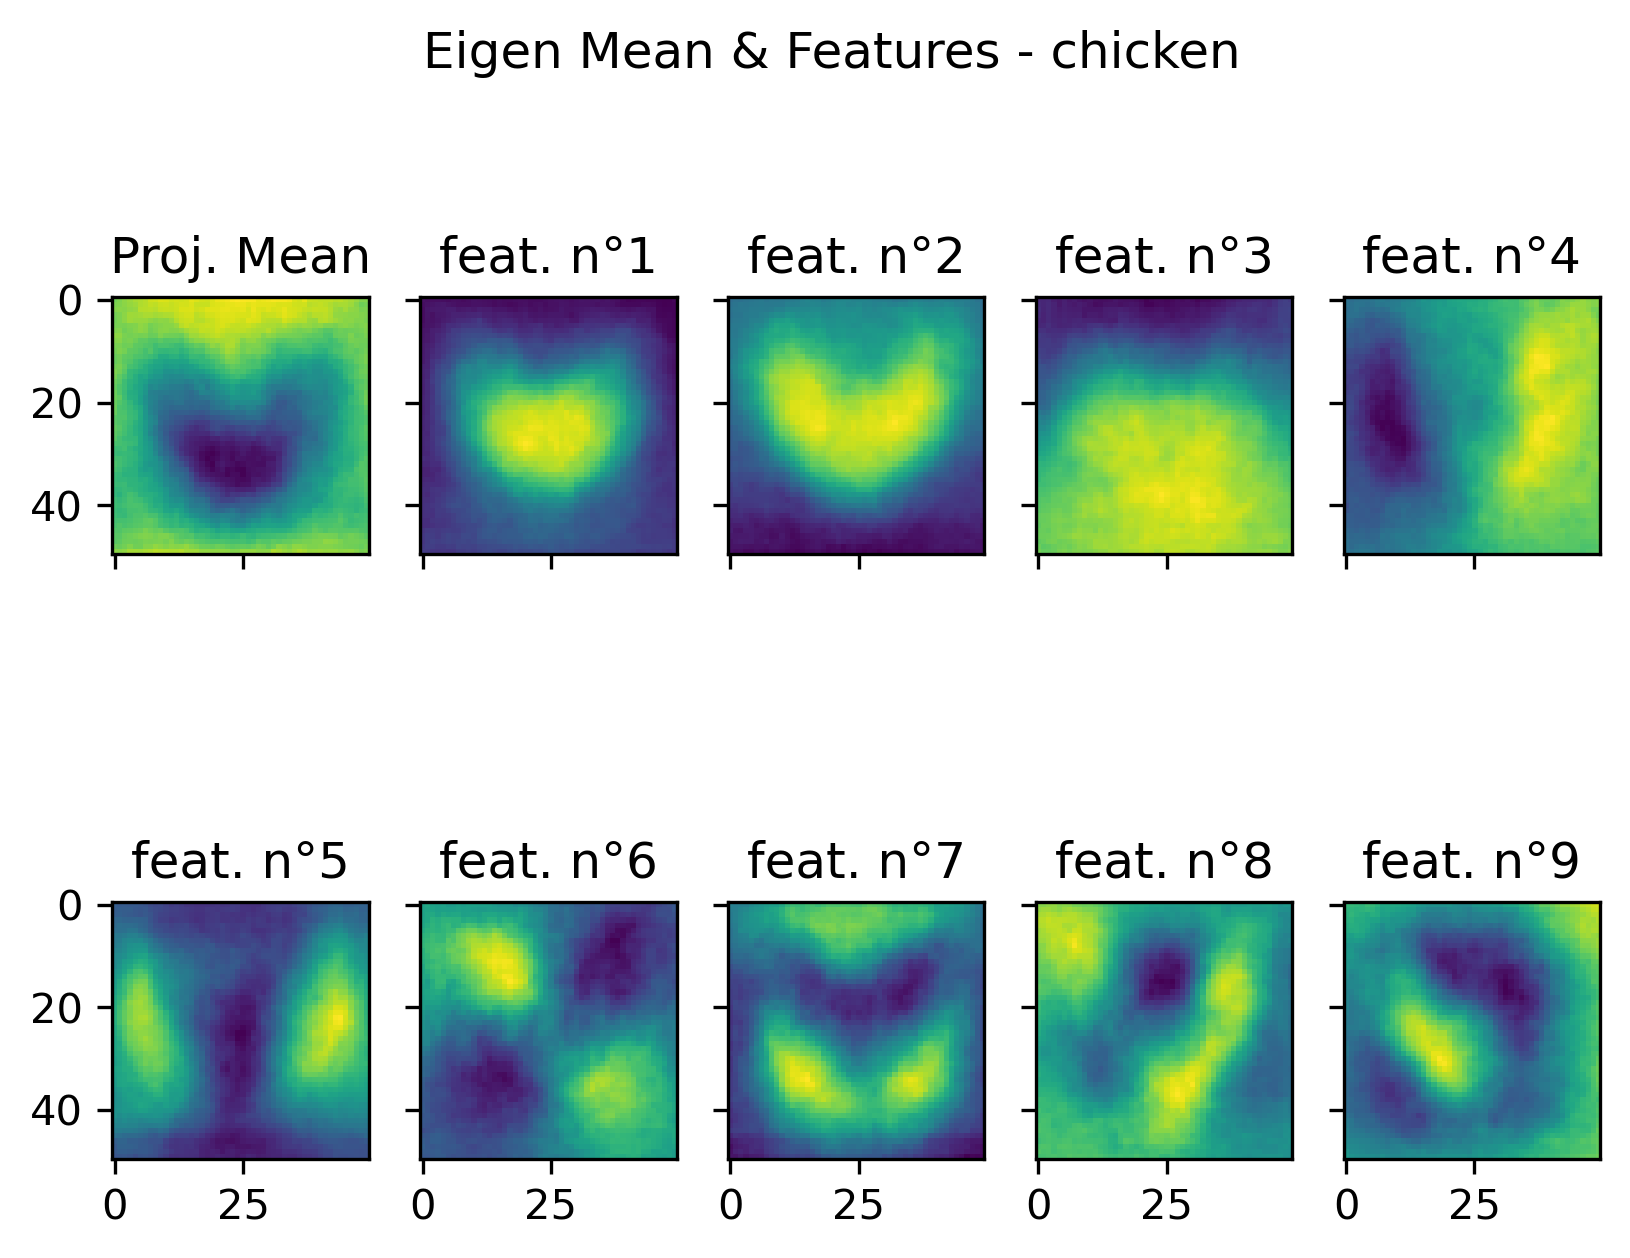
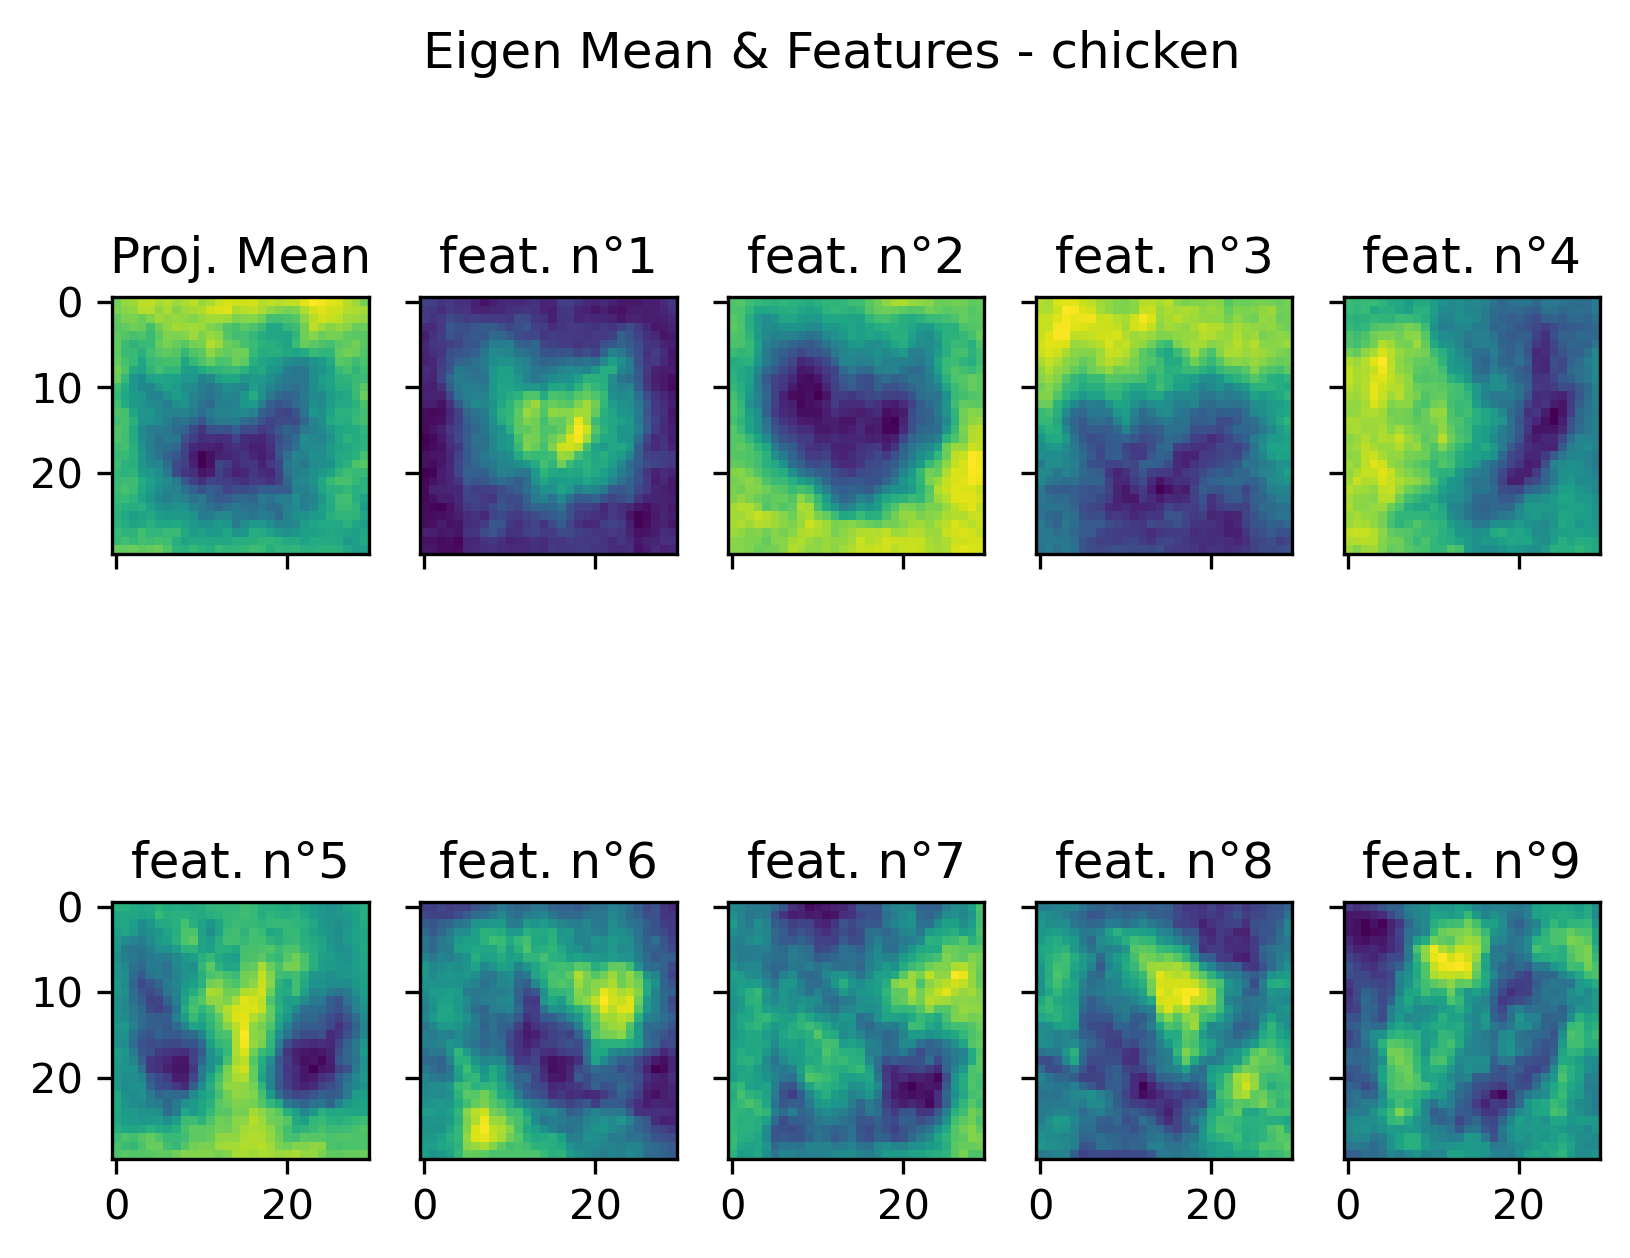
getting 0% accuracy

Changed region(s): [[0.0, 0.713, 0.9816, 0.9921], [0.0, 0.217, 0.9816, 0.465]]

diff --git a/final_project/pca_02.py b/final_project/pca_02.py
@@ -17,34 +17,36 @@ translations = {"cane": "dog", "cavallo": "horse", "elefante": "elephant", \
   "farfalla": "butterfly", "gallina": "chicken", "gatto": "cat", \
   "mucca": "cow", "pecora": "sheep"}
 
-animals=['dog', 'horse','elephant', 'butterfly', 'chicken', 'cat', 'cow', \
- 'sheep']
+#animals=['dog', 'horse','elephant', 'butterfly', 'chicken', 'cat', 'cow', 'sheep']
+
+animals=['dog', 'horse', 'butterfly', 'chicken']
 
 def create_data_obj(src, subdir, categories, n_samples, img_size=250): # size, categories):
   print('---> Creating data object...')
   data = list()
   for category, translate in categories.items():
-    path = src+subdir+category+'/'
-    target = animals.index(translate)
-    print()
-    print('   ----------> at %s , %s is a class' % (path, translate))
-    for i, file in enumerate(os.listdir(path)):
-      if i < n_samples:
-        try:
-          fname, ext = os.path.splitext(file)
-          if prt is True:
-            #print()
-            print('- %5d  %s%s' % (i,fname,ext))
-          image = Image.open(path+fname+ext)
-          #image = change_contrast(image, 95) # change contrast for grey scale
-          image = ImageOps.grayscale(image)
-          image = image.resize((img_size,img_size))
-          pixels = np.asarray(image, order='f') # write to memory fortran style
-          pixels = pixels.astype('float32')
-          data.append(np.asarray([i,pixels,target,src,category,translate,fname+ext]))
-        except OSError as error: # if returns error
-          print('--> cant read image %s already exists.' % path+fname+ext)
-          pass
+    if translate in animals:
+      path = src+subdir+category+'/'
+      target = animals.index(translate)
+      print()
+      print('   ----------> at %s , %s is a class' % (path, translate))
+      for i, file in enumerate(os.listdir(path)):
+        if i < n_samples:
+          try:
+            fname, ext = os.path.splitext(file)
+            if prt is True:
+              #print()
+              print('- %5d  %s%s' % (i,fname,ext))
+            image = Image.open(path+fname+ext)
+            #image = change_contrast(image, 95) # change contrast for grey scale
+            image = ImageOps.grayscale(image)
+            image = image.resize((img_size,img_size))
+            pixels = np.asarray(image, order='f') # write to memory fortran style
+            pixels = pixels.astype('float32')
+            data.append(np.asarray([i,pixels,target,src,category,translate,fname+ext]))
+          except OSError as error: # if returns error
+            print('--> cant read image %s already exists.' % path+fname+ext)
+            pass
   return data
 
 def check_dest(dest):
@@ -105,11 +107,13 @@ def get_data(data, label=None):
 
 def pca(X):
   print('---> Computing principal components...')
+  assert X.shape[0]!=0, '   |---> Err: selected dataset is emptry...'
   # get dim
   n_samples, dim = X.shape
   # center data
   mean = X.mean(axis=0)
-  X = X - mean
+  std = np.std(X, axis=0)
+  X = (X - mean)/std
   use_compact_technique = False # disabled, was getting poor results
   if dim > n_samples and use_compact_technique==True:
     # use compact trick
@@ -155,13 +159,13 @@ class knn_classifier:
     self.n_classes = len(self.labels)
     # set up training data
     self.trainXY = trainXY
-    self.trainX = copy.deepcopy(trainXY[:][:-1])
-    self.trainY = copy.deepcopy(trainXY[:][-1])
+    self.trainX = copy.deepcopy(trainXY[:,:-1])
+    self.trainY = copy.deepcopy(trainXY[:,-1].astype(int))
     # set up test data
     if testXY is not None:
       self.testXY = testXY
-      self.testX = copy.deepcopy(testXY[:][:-1])
-      self.testY = copy.deepcopy(testXY[:][-1])
+      self.testX = copy.deepcopy(testXY[:,:-1])
+      self.testY = copy.deepcopy(testXY[:,-1])
     else:
       print('---> Err: no test set (testX) assigned!!')
     # end of __init__
@@ -175,30 +179,26 @@ class knn_classifier:
     print('---> Computing distance to K nearest neighbors...')
     knn_dists = list()
     knn_ids = list()
-    trainXY = self.trainXY
     k = self.k
-
-    print('------------>> NBUG:{} - dist.shape: {}'.format(__LINE__, row, index))
     set_trace() # check
     # compute distances for given test set
-    dist = [self.euclidean_dist(testx_i, trainXY[:][:-1]) for testx_i in testX]
+    dist = [self.euclidean_dist(testx_i, self.trainX) for testx_i in testX]
     for row in dist: # sort distances
-
       index = enumerate(row)
       sorted_knn = sorted(index, key=lambda x: x[1])[:k] # sort tuples based on 1th element
       idList = [tup[0] for tup in sorted_knn]
       distList = [tup[1] for tup in sorted_knn]
       knn_dists.append(distList)
       knn_ids.append(idList)
-    set_trace() # check
+    #set_trace() # check
     if self.prt == True: # print log
       print('')
       print(' TestX ID | KNN IDs (trainXY)        |')
       print('__________|__________________________|')
       for i in range(len(knn_ids)):
         #diststr =' '.join([str(round(item,6)) for item in knn_dists[i] ])
-        idsstr =' '.join([str(round(item)) for item in knn_ids[i] ])
-        print(' {:5d}  |  {}  |'.format(i , idsstr))
+        idsstr =', '.join([str(round(item)) for item in knn_ids[i] ])
+        print(' {:5d}  |  {}  |'.format(i+1 , idsstr))
     print()
     if dist_mode:
       return np.array(knn_dists), np.array(knn_ids)
@@ -217,22 +217,28 @@ class knn_classifier:
       dists, ids = self.get_kneighbors(testX, dist_mode=True)
       inv_dists = 1/dists
       mean_invdist = inv_dists / np.sum(inv_dists, axis=1)[:, np.newaxis]
-      set_trace()
-      for i, xdatum in enumerate(mean_invdist):
+      #set_trace()
+      i = 1
+      for xdatum in mean_invdist:
         Y = self.trainY[ids[i]]
-        for label in range(self.numLabels):
+        for label in range(len(animals)):
           ids = np.where(Y==label)
           prob_ids = np.sum(xdatum[ids])
           probs.append(np.array(prob_ids))
-      yest_probs = np.array(probs).reshape(testX.shape[0], self.numClasses)
+        i += 1
+      yest_probs = np.array(probs).reshape(testX.shape[0], len(animals))
       yest = np.array([np.argmax(p) for p in yest_probs])
       if prt:
         print('--> Predictions: ')
         print(yest)
     else: # in simple mode
-
-      neighbs = self.get_kneighbors(testX)
-      yest = np.array([np.argmax(np.bincount(self.trainY[n])) for n in neighbs])
+      neighbors = self.get_kneighbors(testX)
+      listtemp = list()
+      for n in neighbors:
+        #set_trace()
+        tmp = np.argmax(np.bincount(self.trainY[n]))
+        listtemp.append(tmp)
+      yest = np.array(listtemp)
     return yest
 
   def get_acc(self, testX, testY, vmode='simple'):
@@ -249,18 +255,20 @@ class knn_classifier:
   # end of knn_classifier class
 
 if __name__ == '__main__':
-
   ''' ToDo: add a auto downloader
   '''
-  #url = 'https://www.kaggle.com/alessiocorrado99/animals10/download'
 
   ''' Image PCA and KNN
+    dataset: https://www.kaggle.com/alessiocorrado99/animals10/download
     YouTube: https://www.youtube.com/watch?v=9YOWgQ4kHGg
     Image CPA from scratch:
     https://drscotthawley.github.io/blog/2019/12/21/PCA-From-Scratch.html
     https://glowingpython.blogspot.com/2011/07/pca-and-image-compression-with-numpy.html
     CPA from scratch: https://machinelearningmastery.com/calculate-principal-component-analysis-scratch-python/
     https://towardsdatascience.com/k-nearest-neighbors-classification-from-scratch-with-numpy-cb222ecfeac1
+
+    read on shuffling error.
+    https://stackoverflow.com/questions/39919181/indexerror-index-is-out-of-bounds-for-axis-0-with-size
   '''
 
   ''' Default config. Do not change.
@@ -273,16 +281,16 @@ if __name__ == '__main__':
 
   ''' NBUG config
   '''
-  skip_data_load = True # just to save time
-  skip_process_raw_data = True # set to False to save time, set True for first use.
-  skip_process_dataXY = True # just to save dev time
-  skip_to_eigenXY = True # used saved PCA dataset
+  #skip_data_load = True # just to save time
+  #skip_process_raw_data = True # set to False to save time, set True for first use.
+  #skip_process_dataXY = True # just to save dev time
+  #skip_to_eigenXY = True # used saved PCA dataset
 
   ''' run config
   '''
   prt = True
-  image_size = 50 # pixels, equal height and width
-  samples_per_class = 1000
+  image_size = 30 # pixels, equal height and width
+  samples_per_class = 100
   shuffles = 10 # shuffle n times to mix data
   testfrac = .2 # 0-1.0 | test set fraction of main set
 
@@ -318,25 +326,26 @@ if __name__ == '__main__':
     print()
     # get data per class and process to obtain PCA
     for b, (directory, label) in enumerate(translations.items()):
-      X, Y = get_data(data, label=label)
-      #nSamps, mFeat = len(X), len(X[0])
-      V,S,img_mean = pca(X)
-      #set_trace()
-      dataXY.append([label,X,Y,V,S,img_mean])
-      labels.append(label)
-      key = np.reshape(img_mean, (1,-1))
-      y = np.full((1,1), Y[0])
-      # copy processed PCA keys - mean
-      keyy = copy.deepcopy(np.concatenate((key,y), axis=1))
-      keysXY = copy.deepcopy(np.concatenate((keysXY, keyy), axis=0))
-      #set_trace()
-      Y = np.expand_dims(Y,axis=1)
-      eigenXY_class = copy.deepcopy(np.concatenate((V,Y), axis=1))
-      eigenXY = copy.deepcopy(np.concatenate((eigenXY,eigenXY_class), axis=0))
-      #print(eigenXY)
-      #set_trace()
-      # plot or save images
-      plot_utility(label, image_size, V, img_mean, b)
+      if label in animals:
+        X, Y = get_data(data, label=label)
+        #nSamps, mFeat = len(X), len(X[0])
+        V,S,img_mean = pca(X)
+        #set_trace()
+        dataXY.append([label,X,Y,V,S,img_mean])
+        labels.append(label)
+        key = np.reshape(img_mean, (1,-1))
+        y = np.full((1,1), Y[0])
+        # copy processed PCA keys - mean
+        keyy = copy.deepcopy(np.concatenate((key,y), axis=1))
+        keysXY = copy.deepcopy(np.concatenate((keysXY, keyy), axis=0))
+        #set_trace()
+        Y = np.expand_dims(Y,axis=1)
+        eigenXY_class = copy.deepcopy(np.concatenate((V,Y), axis=1))
+        eigenXY = copy.deepcopy(np.concatenate((eigenXY,eigenXY_class), axis=0))
+        #print(eigenXY)
+        #set_trace()
+        # plot or save images
+        plot_utility(label, image_size, V, img_mean, b)
 
     # save processed dataset object
     print('---> Saving dataXY object to binary file...')
@@ -406,8 +415,8 @@ if __name__ == '__main__':
   print('   |---> PCA image test set shape: {}'.format(testXY.shape))
 
   #set_trace()self, trainXY, testXY=None, k=1, precision=4, prt=True, vmode='simple', labels=None):
-  knn = knn_classifier(trainXY, testXY, k=5, prt=True, vmode='simple', labels=labels)
-  knn.get_acc(knn.testX, knn.testY) #, vmode='simple')
+  knn = knn_classifier(trainXY, testXY, k=5, prt=True, vmode='weighted', labels=labels)
+  knn.get_acc(knn.testX, knn.testY, vmode='weighted')
   print('\n---> End of process.')
 
 
